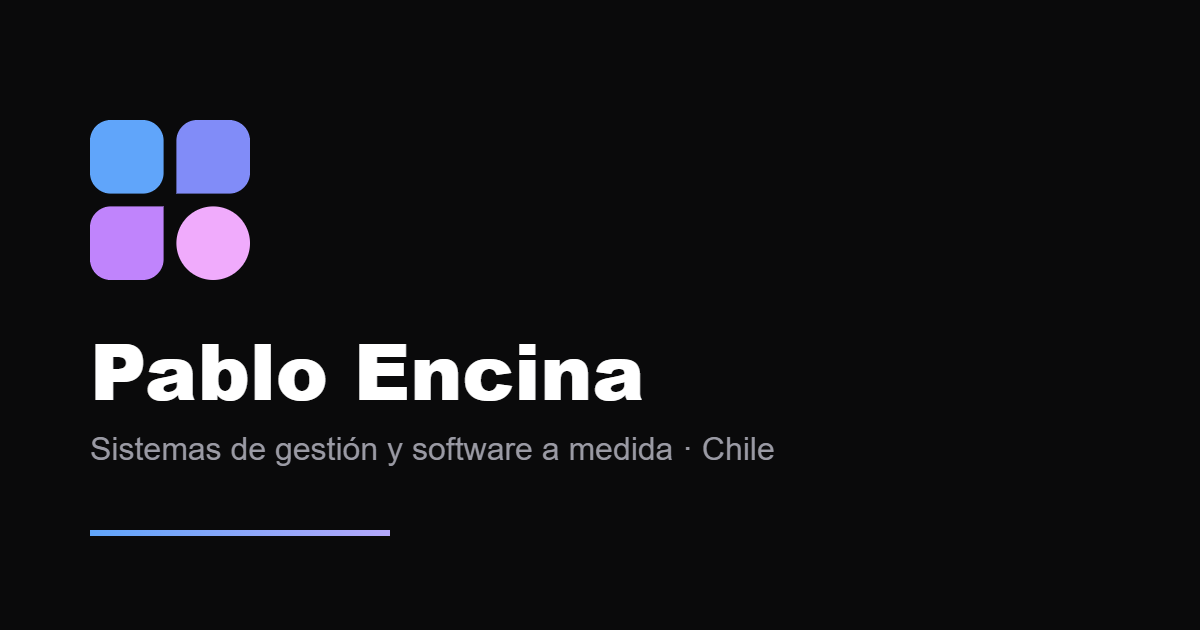
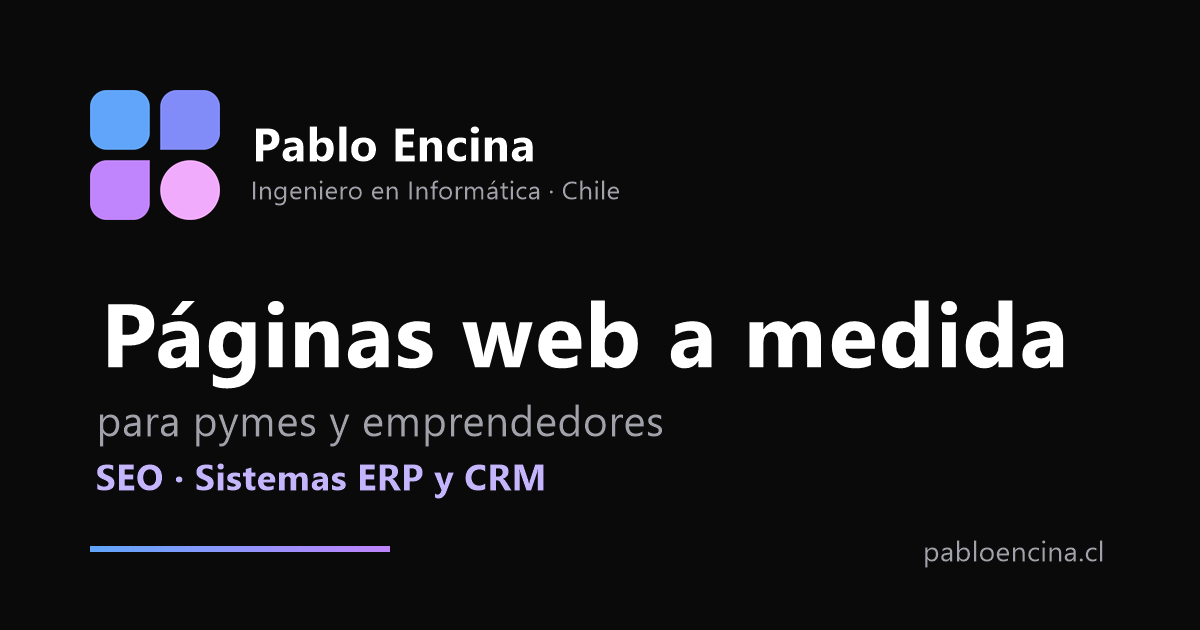
Actualizar imagen de vista previa (og-image) con el enfoque actual
- Nueva og-image.png: Paginas web a medida, SEO, Sistemas ERP y CRM
- ?v=2 en las etiquetas og:image y twitter:image para forzar la actualizacion
  de la cache en WhatsApp, LinkedIn y X

diff --git a/index.html b/index.html
@@ -20,7 +20,7 @@
   <meta property="og:locale" content="es_CL">
   <meta property="og:site_name" content="Pablo Encina">
 
-  <meta property="og:image" content="https://www.pabloencina.cl/assets/og-image.png">
+  <meta property="og:image" content="https://www.pabloencina.cl/assets/og-image.png?v=2">
   <meta property="og:image:width" content="1200">
   <meta property="og:image:height" content="630">
   <meta property="og:image:alt" content="Pablo Encina — Desarrollador Web Full Stack">
@@ -29,7 +29,7 @@
   <meta name="twitter:card" content="summary_large_image">
   <meta name="twitter:title" content="Crea tu Página Web o Sistema a Medida | Pablo Encina">
   <meta name="twitter:description" content="Desarrollo web y sistemas a medida en Chile. Código propio, sin plantillas. Cotiza gratis.">
-  <meta name="twitter:image" content="https://www.pabloencina.cl/assets/og-image.png">
+  <meta name="twitter:image" content="https://www.pabloencina.cl/assets/og-image.png?v=2">
 
   <!-- Marca / Iconos -->
   <link rel="icon" href="assets/favicon.svg" type="image/svg+xml">

diff --git a/crear-pagina-web.html b/crear-pagina-web.html
@@ -18,9 +18,9 @@
   <meta property="og:url" content="https://www.pabloencina.cl/crear-pagina-web.html">
   <meta property="og:title" content="Crear Página Web en Chile | Crea tu Sitio a Medida">
   <meta property="og:description" content="Crea tu página web a medida, con código propio y todo listo para funcionar. Cotiza gratis, propuesta en 24 horas.">
-  <meta property="og:image" content="https://www.pabloencina.cl/assets/og-image.png">
+  <meta property="og:image" content="https://www.pabloencina.cl/assets/og-image.png?v=2">
   <meta name="twitter:card" content="summary_large_image">
-  <meta name="twitter:image" content="https://www.pabloencina.cl/assets/og-image.png">
+  <meta name="twitter:image" content="https://www.pabloencina.cl/assets/og-image.png?v=2">
 
   <link rel="icon" href="assets/favicon.svg" type="image/svg+xml">
   <link rel="icon" href="assets/favicon-32.png" sizes="32x32" type="image/png">

diff --git a/erp-crm-a-medida.html b/erp-crm-a-medida.html
@@ -18,9 +18,9 @@
   <meta property="og:url" content="https://www.pabloencina.cl/erp-crm-a-medida.html">
   <meta property="og:title" content="Sistema ERP y CRM a Medida en Chile | Digitaliza tu Operación">
   <meta property="og:description" content="Operación sin papeles, flujos de aprobación, trazabilidad y dashboards según tu modelo de negocio.">
-  <meta property="og:image" content="https://www.pabloencina.cl/assets/og-image.png">
+  <meta property="og:image" content="https://www.pabloencina.cl/assets/og-image.png?v=2">
   <meta name="twitter:card" content="summary_large_image">
-  <meta name="twitter:image" content="https://www.pabloencina.cl/assets/og-image.png">
+  <meta name="twitter:image" content="https://www.pabloencina.cl/assets/og-image.png?v=2">
 
   <link rel="icon" href="assets/favicon.svg" type="image/svg+xml">
   <link rel="icon" href="assets/favicon-32.png" sizes="32x32" type="image/png">

diff --git a/seo-para-paginas-web.html b/seo-para-paginas-web.html
@@ -18,9 +18,9 @@
   <meta property="og:url" content="https://www.pabloencina.cl/seo-para-paginas-web.html">
   <meta property="og:title" content="SEO para Páginas Web en Chile | Más Visibilidad en Google">
   <meta property="og:description" content="Auditoría SEO, optimización, SEO local y contenido para que más clientes te encuentren en Google.">
-  <meta property="og:image" content="https://www.pabloencina.cl/assets/og-image.png">
+  <meta property="og:image" content="https://www.pabloencina.cl/assets/og-image.png?v=2">
   <meta name="twitter:card" content="summary_large_image">
-  <meta name="twitter:image" content="https://www.pabloencina.cl/assets/og-image.png">
+  <meta name="twitter:image" content="https://www.pabloencina.cl/assets/og-image.png?v=2">
 
   <link rel="icon" href="assets/favicon.svg" type="image/svg+xml">
   <link rel="icon" href="assets/favicon-32.png" sizes="32x32" type="image/png">

diff --git a/seo-local-santiago.html b/seo-local-santiago.html
@@ -18,9 +18,9 @@
   <meta property="og:url" content="https://www.pabloencina.cl/seo-local-santiago.html">
   <meta property="og:title" content="SEO Local en Santiago | Aparece en Google Maps">
   <meta property="og:description" content="Ficha de Google Business, reseñas y web trabajadas para que te encuentren cuando buscan cerca.">
-  <meta property="og:image" content="https://www.pabloencina.cl/assets/og-image.png">
+  <meta property="og:image" content="https://www.pabloencina.cl/assets/og-image.png?v=2">
   <meta name="twitter:card" content="summary_large_image">
-  <meta name="twitter:image" content="https://www.pabloencina.cl/assets/og-image.png">
+  <meta name="twitter:image" content="https://www.pabloencina.cl/assets/og-image.png?v=2">
 
   <link rel="icon" href="assets/favicon.svg" type="image/svg+xml">
   <link rel="icon" href="assets/favicon-32.png" sizes="32x32" type="image/png">

diff --git a/servicios.html b/servicios.html
@@ -15,13 +15,13 @@
   <meta property="og:type" content="website">
   <meta property="og:url" content="https://www.pabloencina.cl/servicios.html">
   <meta property="og:locale" content="es_CL">
-  <meta property="og:image" content="https://www.pabloencina.cl/assets/og-image.png">
+  <meta property="og:image" content="https://www.pabloencina.cl/assets/og-image.png?v=2">
   <meta property="og:image:width" content="1200">
   <meta property="og:image:height" content="630">
   <meta property="og:image:alt" content="Pablo Encina — Desarrollador Web Full Stack">
 
   <meta name="twitter:card" content="summary_large_image">
-  <meta name="twitter:image" content="https://www.pabloencina.cl/assets/og-image.png">
+  <meta name="twitter:image" content="https://www.pabloencina.cl/assets/og-image.png?v=2">
 
   <!-- Marca / Iconos -->
   <link rel="icon" href="assets/favicon.svg" type="image/svg+xml">

diff --git a/contacto.html b/contacto.html
@@ -15,13 +15,13 @@
   <meta property="og:type" content="website">
   <meta property="og:url" content="https://www.pabloencina.cl/contacto.html">
   <meta property="og:locale" content="es_CL">
-  <meta property="og:image" content="https://www.pabloencina.cl/assets/og-image.png">
+  <meta property="og:image" content="https://www.pabloencina.cl/assets/og-image.png?v=2">
   <meta property="og:image:width" content="1200">
   <meta property="og:image:height" content="630">
   <meta property="og:image:alt" content="Pablo Encina — Desarrollador Web Full Stack">
 
   <meta name="twitter:card" content="summary_large_image">
-  <meta name="twitter:image" content="https://www.pabloencina.cl/assets/og-image.png">
+  <meta name="twitter:image" content="https://www.pabloencina.cl/assets/og-image.png?v=2">
 
   <!-- Marca / Iconos -->
   <link rel="icon" href="assets/favicon.svg" type="image/svg+xml">

diff --git a/por-que-mis-correos-llegan-a-spam.html b/por-que-mis-correos-llegan-a-spam.html
@@ -18,7 +18,7 @@
 <meta property="og:url" content="https://www.pabloencina.cl/por-que-mis-correos-llegan-a-spam.html">
 <meta property="og:title" content="¿Por Qué Mis Correos Llegan a Spam? Causas y Solución Real">
 <meta property="og:description" content="La causa técnica detrás de los correos que nadie recibe, y los pasos concretos para arreglarlo.">
-<meta property="og:image" content="https://www.pabloencina.cl/assets/og-image.png">
+<meta property="og:image" content="https://www.pabloencina.cl/assets/og-image.png?v=2">
 <meta name="twitter:card" content="summary_large_image">
 
 <link rel="icon" href="assets/favicon.svg" type="image/svg+xml">

diff --git a/correo-corporativo-con-dominio-propio.html b/correo-corporativo-con-dominio-propio.html
@@ -18,7 +18,7 @@
 <meta property="og:url" content="https://www.pabloencina.cl/correo-corporativo-con-dominio-propio.html">
 <meta property="og:title" content="Cómo Tener Correo Corporativo con tu Propio Dominio">
 <meta property="og:description" content="Qué proveedor elegir, cuánto cuesta y cómo dejarlo configurado para que tus correos lleguen bien.">
-<meta property="og:image" content="https://www.pabloencina.cl/assets/og-image.png">
+<meta property="og:image" content="https://www.pabloencina.cl/assets/og-image.png?v=2">
 <meta name="twitter:card" content="summary_large_image">
 
 <link rel="icon" href="assets/favicon.svg" type="image/svg+xml">

diff --git a/alerta-php-wordpress.html b/alerta-php-wordpress.html
@@ -17,7 +17,7 @@
 <meta property="og:url" content="https://www.pabloencina.cl/alerta-php-wordpress.html">
 <meta property="og:title" content="¿Tu web es WordPress? Hoy toca actualizar PHP">
 <meta property="og:description" content="Falla crítica de PHP con gravedad 9,2/10. Cómo revisar tu versión en 2 minutos y qué hacer si tu hosting no actualiza.">
-<meta property="og:image" content="https://www.pabloencina.cl/assets/og-image.png">
+<meta property="og:image" content="https://www.pabloencina.cl/assets/og-image.png?v=2">
 <meta name="twitter:card" content="summary_large_image">
 
 <link rel="icon" href="assets/favicon.svg" type="image/svg+xml">

diff --git a/cuanto-cuesta-una-pagina-web-en-chile.html b/cuanto-cuesta-una-pagina-web-en-chile.html
@@ -17,7 +17,7 @@
 <meta property="og:url" content="https://www.pabloencina.cl/cuanto-cuesta-una-pagina-web-en-chile.html">
 <meta property="og:title" content="¿Cuánto Cuesta una Página Web en Chile? Precios Reales 2026">
 <meta property="og:description" content="Rangos de precio por tipo de proyecto, qué incluye cada uno y los costos anuales que casi nadie menciona en la cotización.">
-<meta property="og:image" content="https://www.pabloencina.cl/assets/og-image.png">
+<meta property="og:image" content="https://www.pabloencina.cl/assets/og-image.png?v=2">
 <meta name="twitter:card" content="summary_large_image">
 
 <style>
